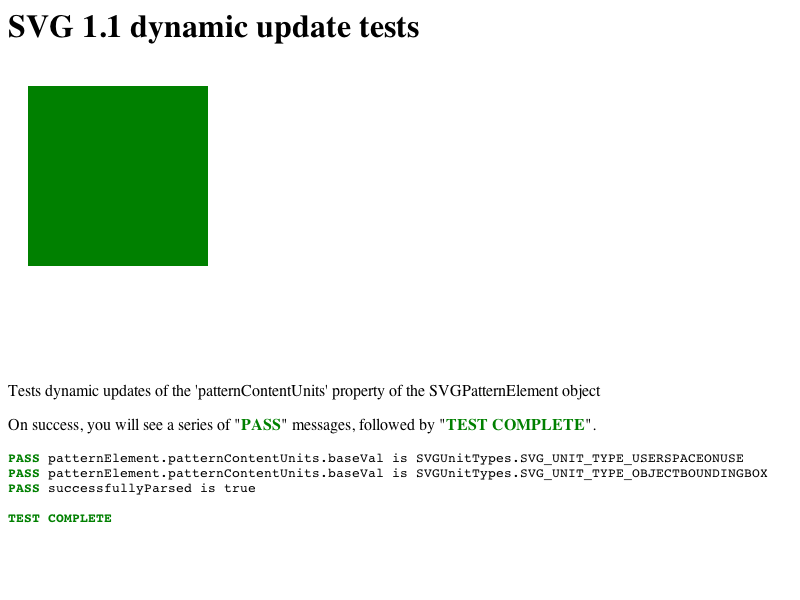
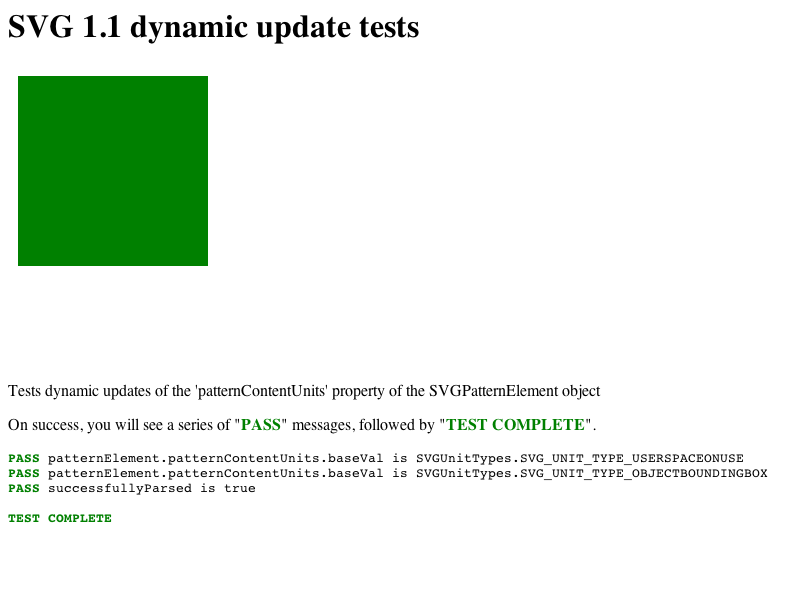
2011-02-17  Nikolas Zimmermann  <nzimmermann@rim.com>
Reviewed by Dirk Schulze.

        svg/batik/paints/patternRegions-positioned-objects.svg fails on Windows
        https://bugs.webkit.org/show_bug.cgi?id=44484

        Pattern of pattern defined with objectBoundingBox does not render correctly
        https://bugs.webkit.org/show_bug.cgi?id=53463

        Fix <pattern> + patternContentUnits="objectBoundingBox" support.
        We were incorrrectly translating the tile image transform, by the target objects bbox.x()/y().
        RenderSVGResourceMask/Clipper don't have this error.

        Fix nesting <patterns> in objectBoundingBox mode, propagate the tileImageTransform as new user-space
        when drawing the pattern children. <mask> + <clipPath> don't have the problem.

        Test: svg/custom/nested-pattern-boundingBoxModeContent.svg

        * rendering/svg/RenderSVGResourcePattern.cpp:
        (WebCore::RenderSVGResourcePattern::buildTileImageTransform):
        (WebCore::RenderSVGResourcePattern::createTileImage):

2011-02-17  Nikolas Zimmermann  <nzimmermann@rim.com>

        Reviewed by Dirk Schulze.

        svg/batik/paints/patternRegions-positioned-objects.svg fails on Windows
        https://bugs.webkit.org/show_bug.cgi?id=44484

        Pattern of pattern defined with objectBoundingBox does not render correctly
        https://bugs.webkit.org/show_bug.cgi?id=53463

        Update SnowLeopard pixel test baseline after adding new patternContentUnits="objectBoundingBox" tests.
[…]

Changed region(s): [[0.0, 0.12, 0.2812, 0.45]]

diff --git a/Source/WebCore/rendering/svg/RenderSVGResourcePattern.cpp b/Source/WebCore/rendering/svg/RenderSVGResourcePattern.cpp
@@ -233,10 +233,8 @@ bool RenderSVGResourcePattern::buildTileImageTransform(RenderObject* renderer,
     // Apply viewBox/objectBoundingBox transformations.
     if (!viewBoxCTM.isIdentity())
         tileImageTransform = viewBoxCTM;
-    else if (attributes.boundingBoxModeContent()) {
-        tileImageTransform.translate(objectBoundingBox.x(), objectBoundingBox.y());
+    else if (attributes.boundingBoxModeContent())
         tileImageTransform.scale(objectBoundingBox.width(), objectBoundingBox.height());
-    }
 
     return true;
 }
@@ -276,6 +274,8 @@ PassOwnPtr<ImageBuffer> RenderSVGResourcePattern::createTileImage(RenderObject* 
         tileImageContext->concatCTM(tileImageTransform);
 
     AffineTransform contentTransformation;
+    if (attributes.boundingBoxModeContent())
+        contentTransformation = tileImageTransform;
 
     // Draw the content into the ImageBuffer.
     for (Node* node = attributes.patternContentElement()->firstChild(); node; node = node->nextSibling()) {
